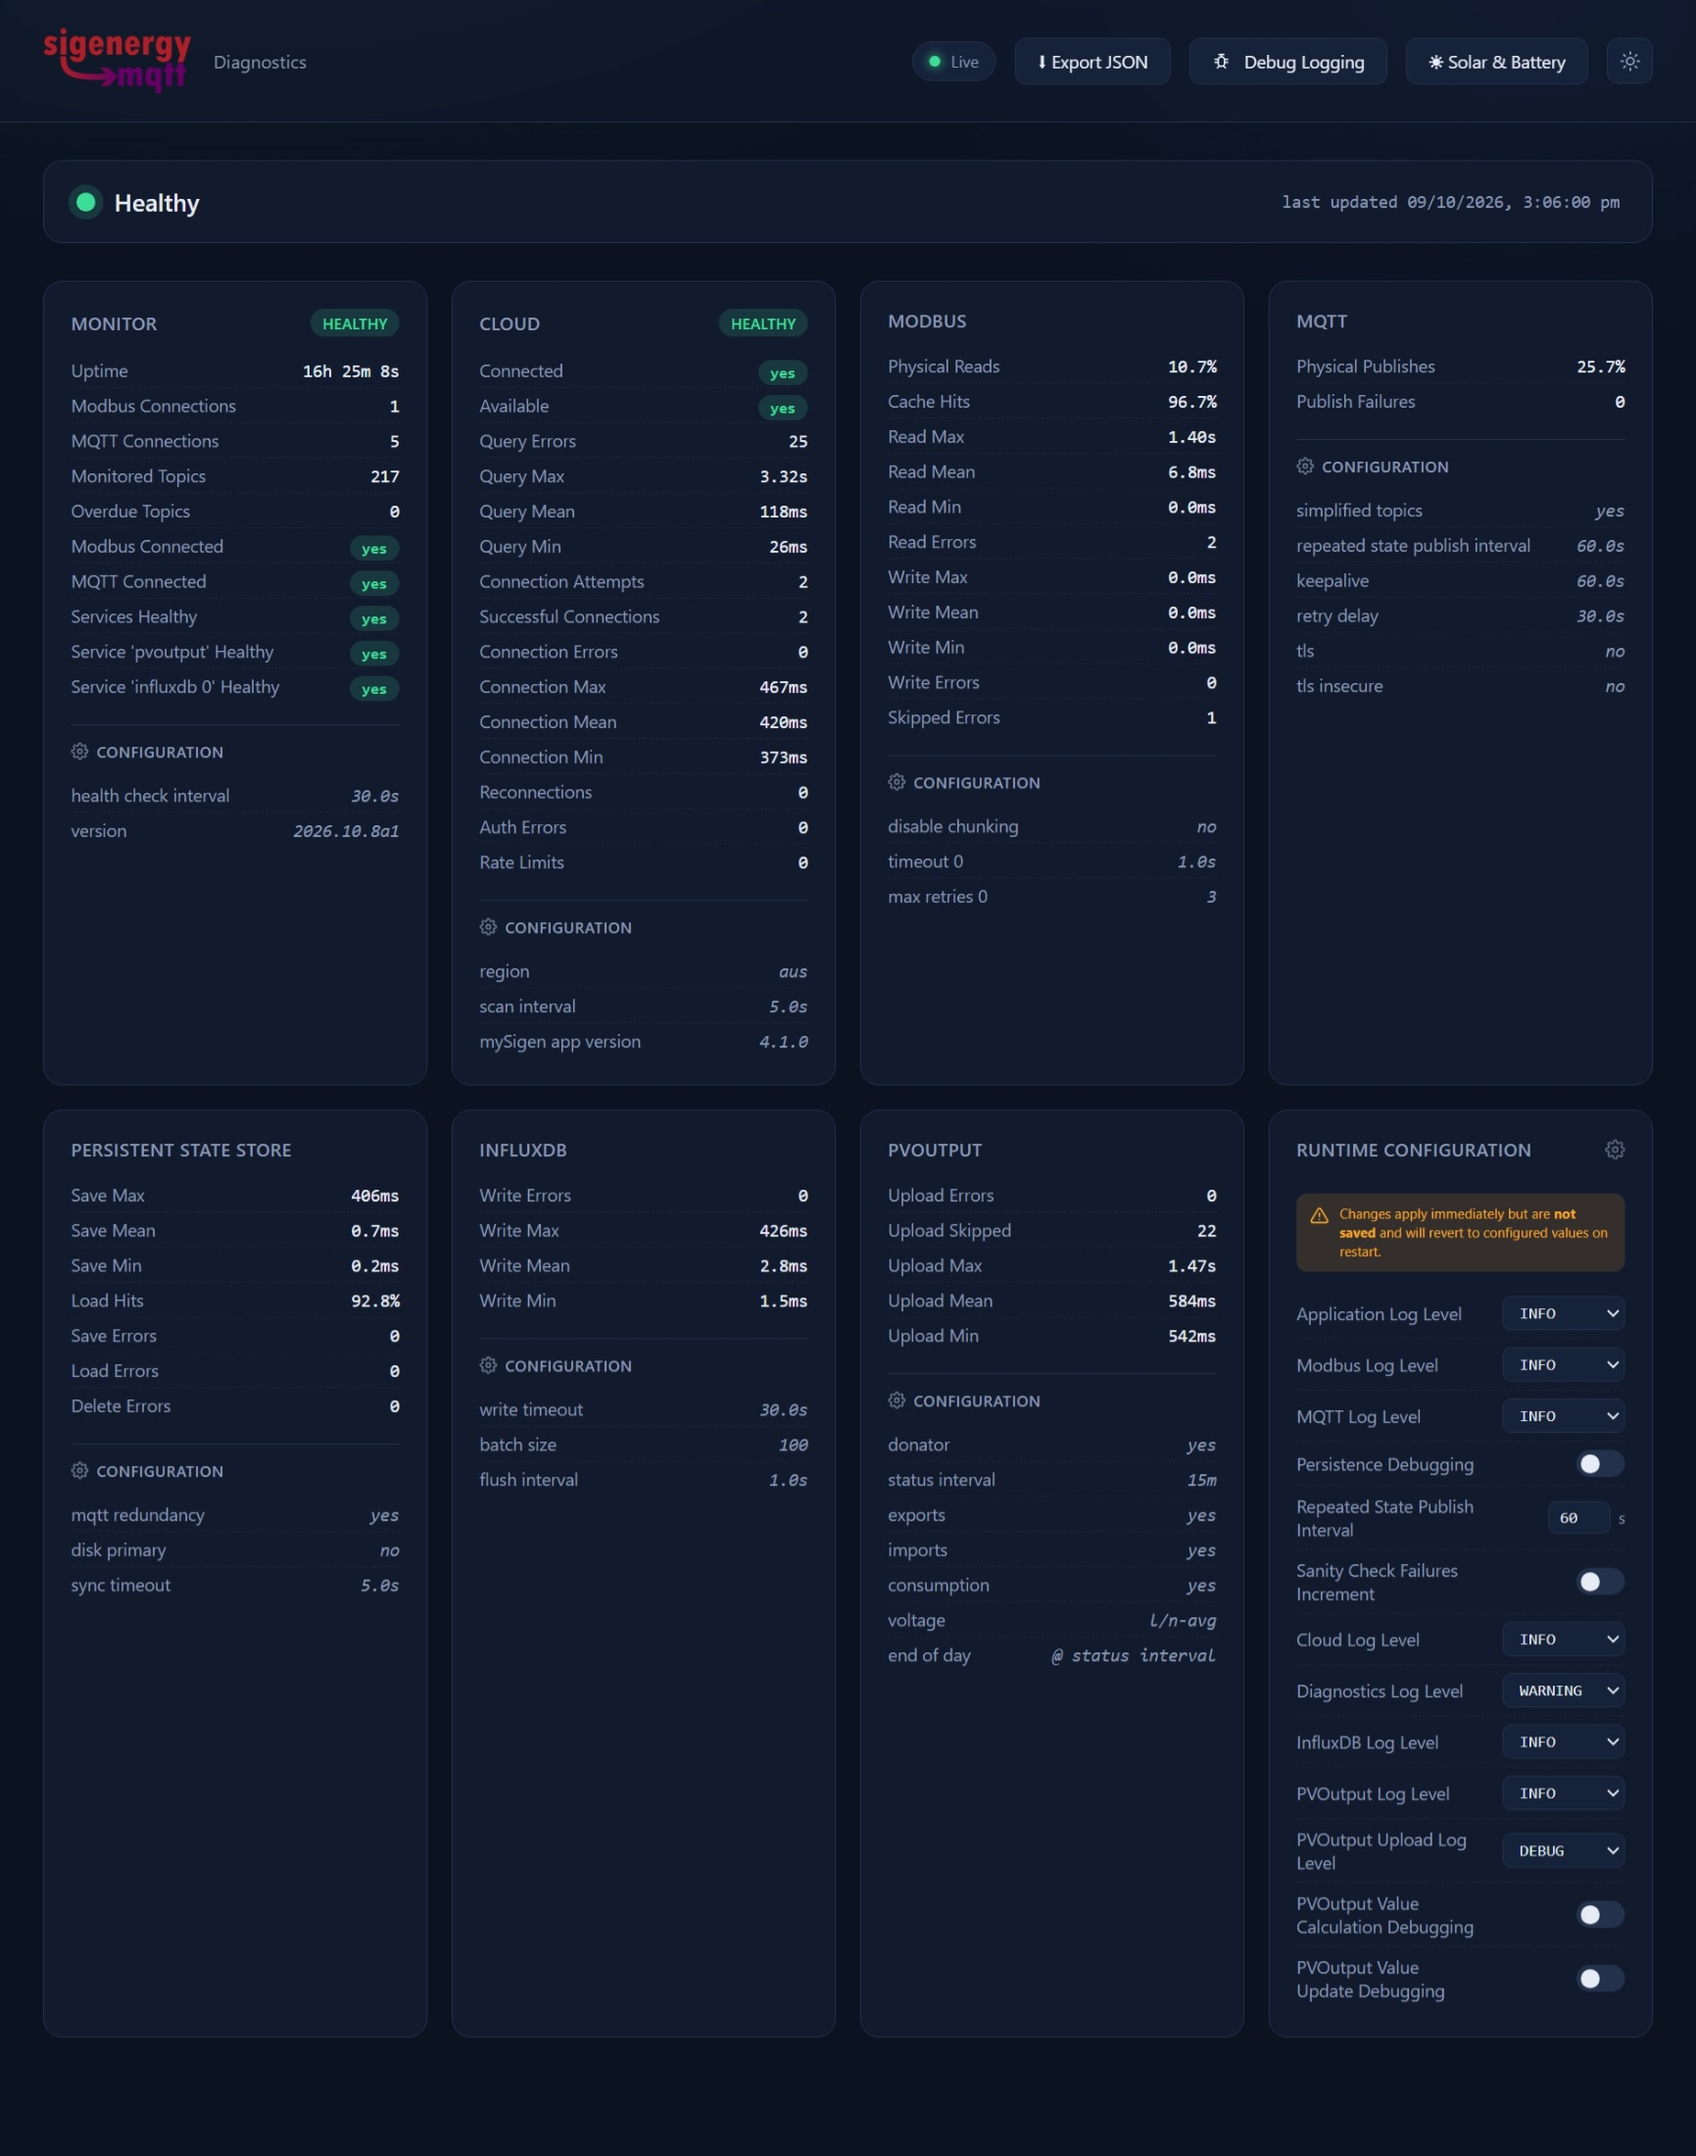
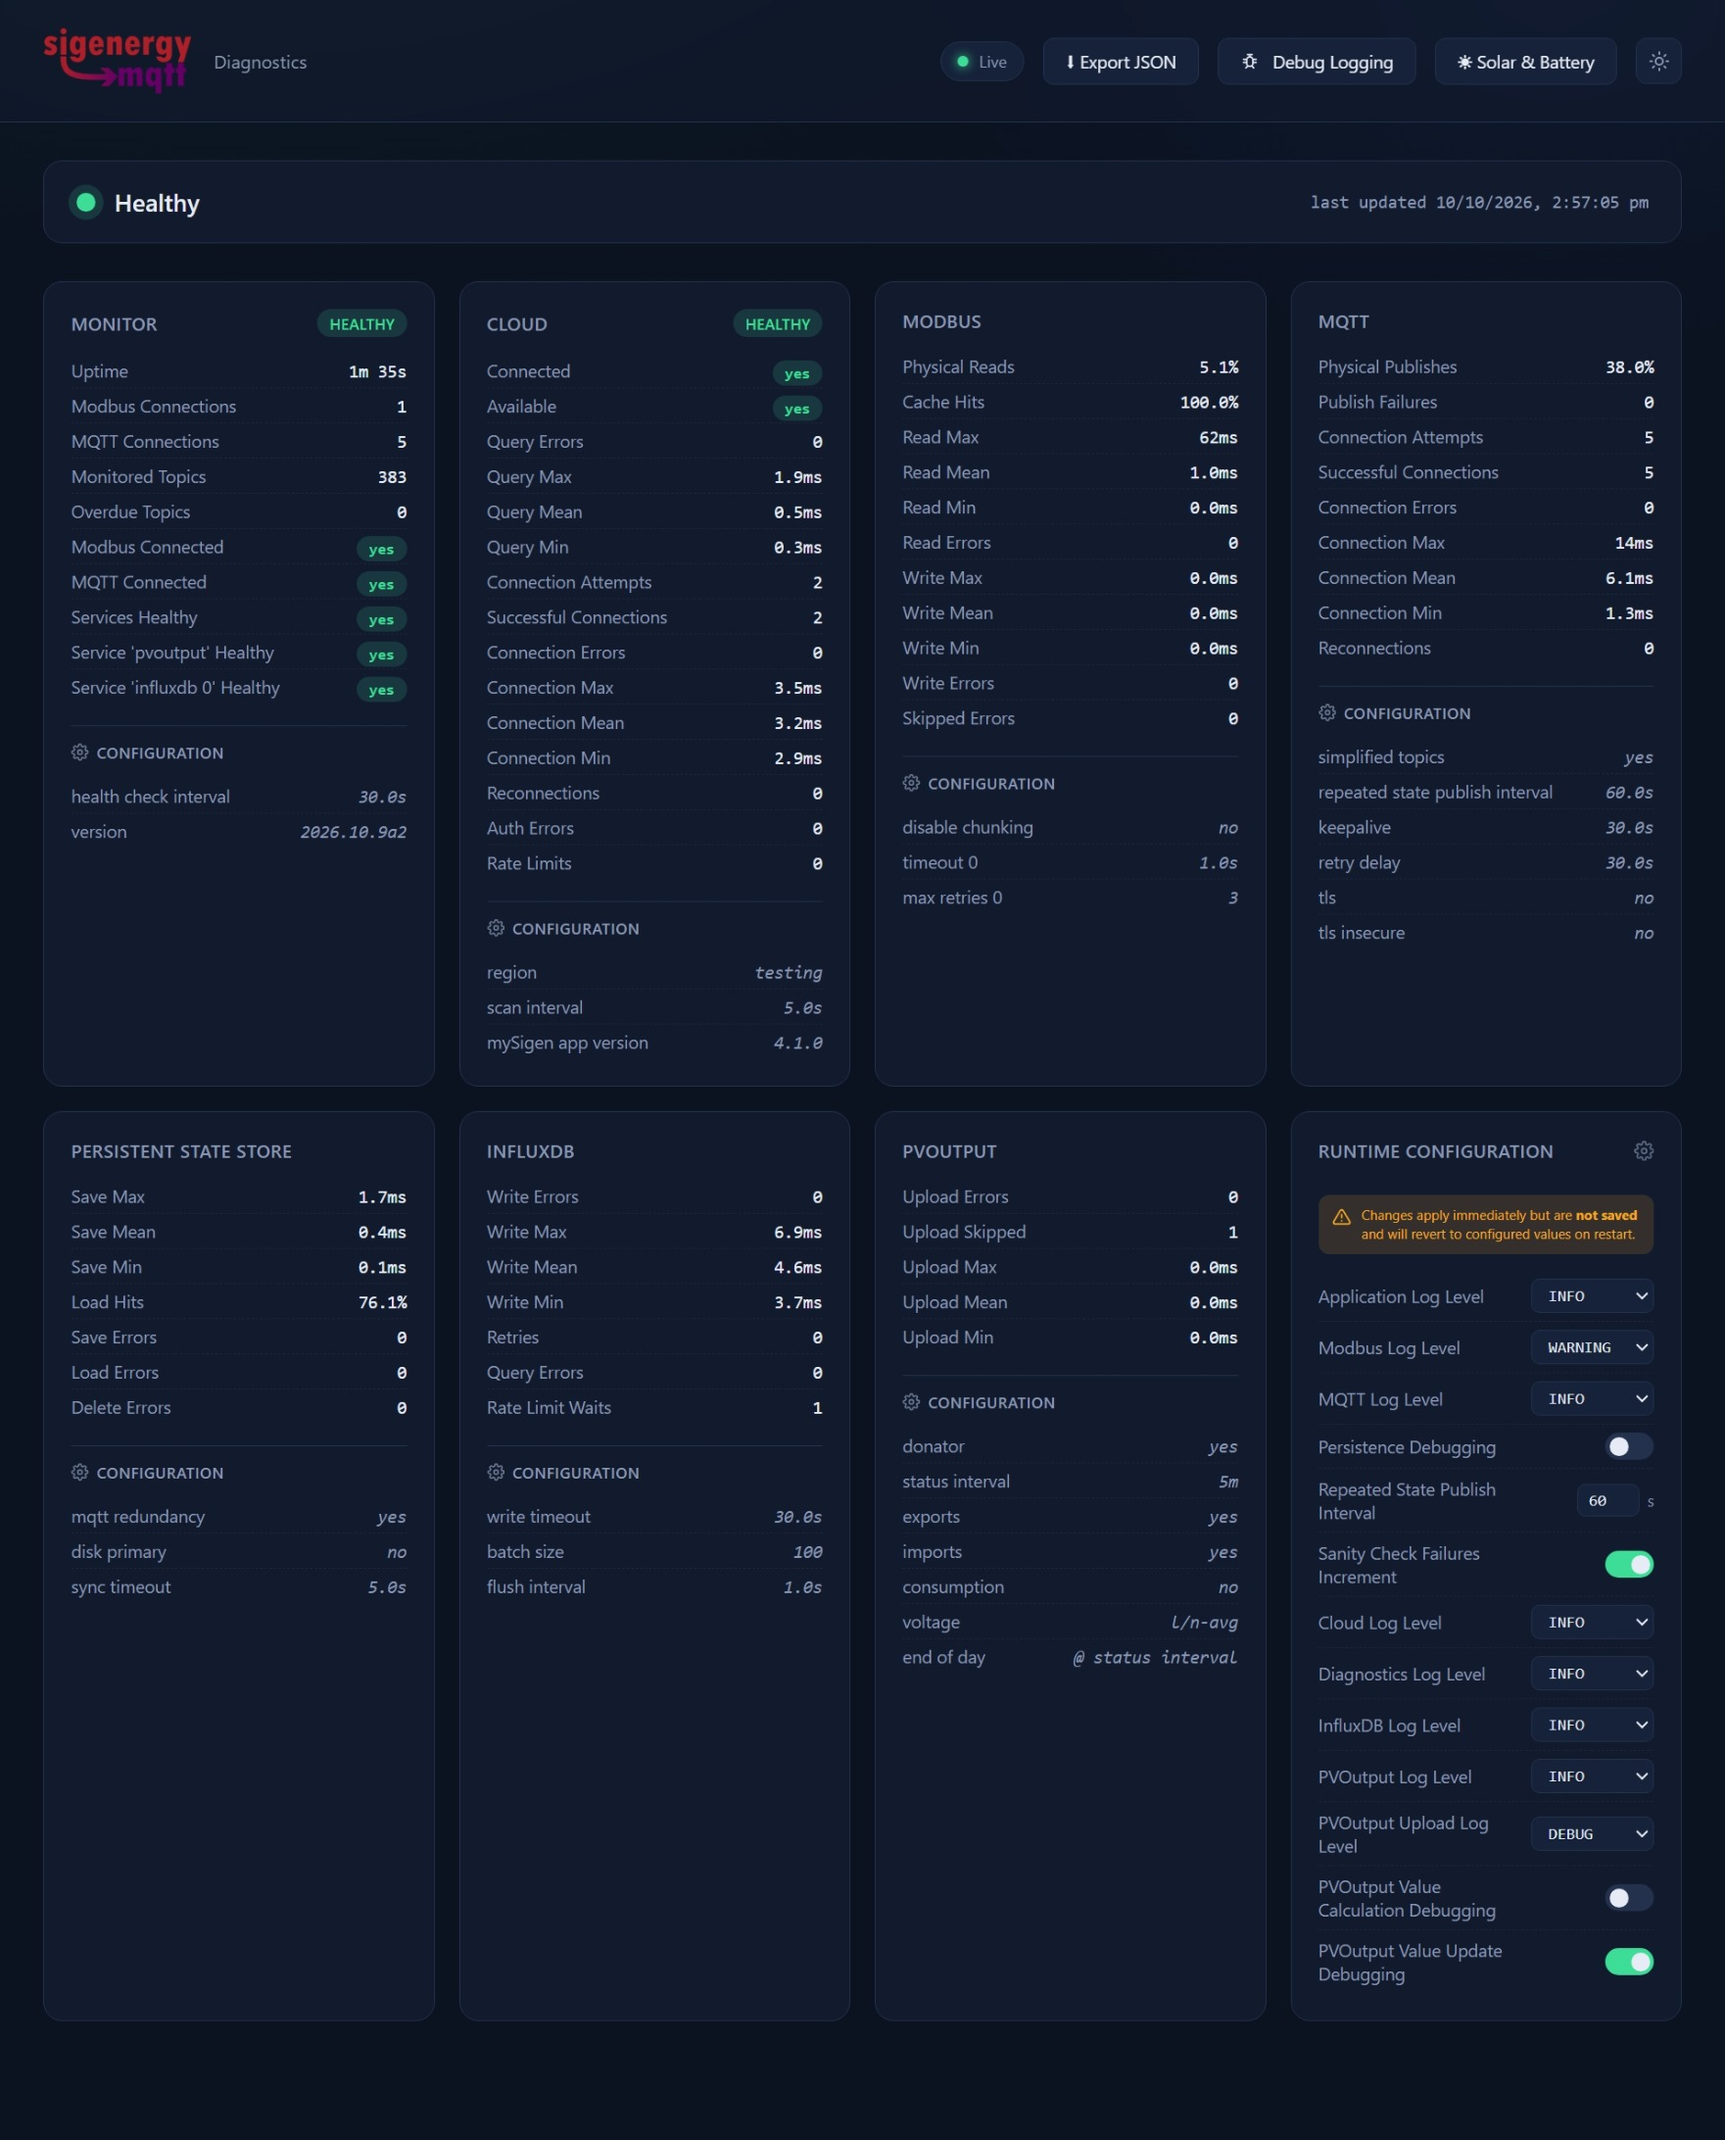
feat: implement text stripping functions for diagnostics metrics

diff --git a/src/sigenergy2mqtt/diagnostics/collectors.py b/src/sigenergy2mqtt/diagnostics/collectors.py
@@ -1,3 +1,4 @@
+import re
 from typing import Any, cast
 
 from sigenergy2mqtt.cloud.mysigen_adapter import MySigenCloudAdapter
@@ -13,6 +14,22 @@ from sigenergy2mqtt.sensors.base.writeable import (
 )
 
 from .registry import diagnostics_registry
+
+
+def make_stripper(*terms: str):
+    alternation = "|".join(re.escape(t) for t in terms)
+    pattern = re.compile(rf"[\s\-–—]*(?:{alternation})[\s\-–—]*", re.IGNORECASE)
+
+    def strip_terms(text: str) -> str:
+        return pattern.sub(" ", text).strip()
+
+    return strip_terms
+
+
+strip_influxdb = make_stripper("InfluxDB")
+strip_modbus = make_stripper("Modbus")
+strip_mqtt = make_stripper("MQTT")
+strip_pvoutput = make_stripper("PVOutput")
 
 
 class DiagnosticsCollectors:
@@ -135,10 +152,10 @@ class DiagnosticsCollectors:
         """Diagnostics provider callback: exposes the latest InfluxDB metrics."""
         async with Metrics.lock(timeout=1.0):
             influxdb_metrics = {
-                f"{_t('InfluxDBWriteErrors.name').removeprefix('InfluxDB ')}": Metrics.sigenergy2mqtt_influxdb_write_errors,
-                f"{_t('InfluxDBWriteMax.name').removeprefix('InfluxDB ')}_ms": Metrics.sigenergy2mqtt_influxdb_write_max,
-                f"{_t('InfluxDBWriteMean.name').removeprefix('InfluxDB ')}_ms": Metrics.sigenergy2mqtt_influxdb_write_mean,
-                f"{_t('InfluxDBWriteMin.name').removeprefix('InfluxDB ')}_ms": Metrics.sigenergy2mqtt_influxdb_write_min if Metrics.sigenergy2mqtt_influxdb_write_min != float("inf") else 0.0,
+                f"{strip_influxdb(_t('InfluxDBWriteErrors.name'))}": Metrics.sigenergy2mqtt_influxdb_write_errors,
+                f"{strip_influxdb(_t('InfluxDBWriteMax.name'))}_ms": Metrics.sigenergy2mqtt_influxdb_write_max,
+                f"{strip_influxdb(_t('InfluxDBWriteMean.name'))}_ms": Metrics.sigenergy2mqtt_influxdb_write_mean,
+                f"{strip_influxdb(_t('InfluxDBWriteMin.name'))}_ms": Metrics.sigenergy2mqtt_influxdb_write_min if Metrics.sigenergy2mqtt_influxdb_write_min != float("inf") else 0.0,
                 "config": {
                     "write_timeout_secs": active_config.influxdb.write_timeout,
                     "batch_size": active_config.influxdb.batch_size,
@@ -147,9 +164,9 @@ class DiagnosticsCollectors:
             }
             if active_config.influxdb.load_hass_history:
                 influxdb_metrics.update({
-                    f"{_t('InfluxDBRetries.name').removeprefix('InfluxDB ')}": Metrics.sigenergy2mqtt_influxdb_retries,
-                    f"{_t('InfluxDBQueryErrors.name').removeprefix('InfluxDB ')}": Metrics.sigenergy2mqtt_influxdb_query_errors,
-                    f"{_t('InfluxDBRateLimitWaits.name').removeprefix('InfluxDB ')}": Metrics.sigenergy2mqtt_influxdb_rate_limit_waits,
+                    f"{strip_influxdb(_t('InfluxDBRetries.name'))}": Metrics.sigenergy2mqtt_influxdb_retries,
+                    f"{strip_influxdb(_t('InfluxDBQueryErrors.name'))}": Metrics.sigenergy2mqtt_influxdb_query_errors,
+                    f"{strip_influxdb(_t('InfluxDBRateLimitWaits.name'))}": Metrics.sigenergy2mqtt_influxdb_rate_limit_waits,
                 })
             return influxdb_metrics
 
@@ -158,17 +175,17 @@ class DiagnosticsCollectors:
         """Diagnostics provider callback: exposes the latest Modbus metric."""
         async with Metrics.lock(timeout=1.0):
             return {
-                f"{_t('ModbusPhysicalReads.name').removeprefix('Modbus ')}_pct": Metrics.sigenergy2mqtt_modbus_physical_read_percentage,
-                f"{_t('ModbusCacheHits.name').removeprefix('Modbus ')}_pct": Metrics.sigenergy2mqtt_modbus_cache_hit_percentage,
-                f"{_t('ModbusReadMax.name').removeprefix('Modbus ')}_ms": Metrics.sigenergy2mqtt_modbus_read_max,
-                f"{_t('ModbusReadMean.name').removeprefix('Modbus ')}_ms": Metrics.sigenergy2mqtt_modbus_read_mean,
-                f"{_t('ModbusReadMin.name').removeprefix('Modbus ')}_ms": Metrics.sigenergy2mqtt_modbus_read_min if Metrics.sigenergy2mqtt_modbus_read_min != float("inf") else 0.0,
-                f"{_t('ModbusReadErrors.name').removeprefix('Modbus ')}": Metrics.sigenergy2mqtt_modbus_read_errors,
-                f"{_t('ModbusWriteMax.name').removeprefix('Modbus ')}_ms": Metrics.sigenergy2mqtt_modbus_write_max,
-                f"{_t('ModbusWriteMean.name').removeprefix('Modbus ')}_ms": Metrics.sigenergy2mqtt_modbus_write_mean,
-                f"{_t('ModbusWriteMin.name').removeprefix('Modbus ')}_ms": Metrics.sigenergy2mqtt_modbus_write_min if Metrics.sigenergy2mqtt_modbus_write_min != float("inf") else 0.0,
-                f"{_t('ModbusWriteErrors.name').removeprefix('Modbus ')}": Metrics.sigenergy2mqtt_modbus_write_errors,
-                f"{_t('ModbusSkippedErrors.name').removeprefix('Modbus ')}": Metrics.sigenergy2mqtt_modbus_skipped_errors,
+                f"{strip_modbus(_t('ModbusPhysicalReads.name'))}_pct": Metrics.sigenergy2mqtt_modbus_physical_read_percentage,
+                f"{strip_modbus(_t('ModbusCacheHits.name'))}_pct": Metrics.sigenergy2mqtt_modbus_cache_hit_percentage,
+                f"{strip_modbus(_t('ModbusReadMax.name'))}_ms": Metrics.sigenergy2mqtt_modbus_read_max,
+                f"{strip_modbus(_t('ModbusReadMean.name'))}_ms": Metrics.sigenergy2mqtt_modbus_read_mean,
+                f"{strip_modbus(_t('ModbusReadMin.name'))}_ms": Metrics.sigenergy2mqtt_modbus_read_min if Metrics.sigenergy2mqtt_modbus_read_min != float("inf") else 0.0,
+                f"{strip_modbus(_t('ModbusReadErrors.name'))}": Metrics.sigenergy2mqtt_modbus_read_errors,
+                f"{strip_modbus(_t('ModbusWriteMax.name'))}_ms": Metrics.sigenergy2mqtt_modbus_write_max,
+                f"{strip_modbus(_t('ModbusWriteMean.name'))}_ms": Metrics.sigenergy2mqtt_modbus_write_mean,
+                f"{strip_modbus(_t('ModbusWriteMin.name'))}_ms": Metrics.sigenergy2mqtt_modbus_write_min if Metrics.sigenergy2mqtt_modbus_write_min != float("inf") else 0.0,
+                f"{strip_modbus(_t('ModbusWriteErrors.name'))}": Metrics.sigenergy2mqtt_modbus_write_errors,
+                f"{strip_modbus(_t('ModbusSkippedErrors.name'))}": Metrics.sigenergy2mqtt_modbus_skipped_errors,
                 "config": {
                     "disable_chunking": "yes" if active_config.modbus[0].disable_chunking else "no",
                     "timeout_0_secs": active_config.modbus[0].timeout,
@@ -181,15 +198,15 @@ class DiagnosticsCollectors:
         """Diagnostics provider callback: exposes the latest MQTT metrics."""
         async with Metrics.lock(timeout=1.0):
             return {
-                f"{_t('MQTTConnectionAttempts.name').removeprefix('MQTT ')}": Metrics.sigenergy2mqtt_mqtt_connection_attempts,
-                f"{_t('MQTTConnections.name').removeprefix('MQTT ')}": Metrics.sigenergy2mqtt_mqtt_connections,
-                f"{_t('MQTTConnectionErrors.name').removeprefix('MQTT ')}": Metrics.sigenergy2mqtt_mqtt_connection_errors,
-                f"{_t('MQTTConnectionMax.name').removeprefix('MQTT ')}_ms": Metrics.sigenergy2mqtt_mqtt_connection_max,
-                f"{_t('MQTTConnectionMean.name').removeprefix('MQTT ')}_ms": Metrics.sigenergy2mqtt_mqtt_connection_mean,
-                f"{_t('MQTTConnectionMin.name').removeprefix('MQTT ')}_ms": Metrics.sigenergy2mqtt_mqtt_connection_min if Metrics.sigenergy2mqtt_mqtt_connection_min != float("inf") else 0.0,
-                f"{_t('MQTTReconnections.name').removeprefix('MQTT ')}": Metrics.sigenergy2mqtt_mqtt_reconnections,
-                f"{_t('MQTTPhysicalPublishes.name').removeprefix('MQTT ')}_pct": Metrics.sigenergy2mqtt_mqtt_physical_publish_percentage,
-                f"{_t('MQTTPublishFailures.name').removeprefix('MQTT ')}": Metrics.sigenergy2mqtt_mqtt_publish_failures,
+                f"{strip_mqtt(_t('MQTTPhysicalPublishes.name'))}_pct": Metrics.sigenergy2mqtt_mqtt_physical_publish_percentage,
+                f"{strip_mqtt(_t('MQTTPublishFailures.name'))}": Metrics.sigenergy2mqtt_mqtt_publish_failures,
+                f"{strip_mqtt(_t('MQTTConnectionAttempts.name'))}": Metrics.sigenergy2mqtt_mqtt_connection_attempts,
+                f"{strip_mqtt(_t('MQTTConnections.name'))}": Metrics.sigenergy2mqtt_mqtt_connections,
+                f"{strip_mqtt(_t('MQTTConnectionErrors.name'))}": Metrics.sigenergy2mqtt_mqtt_connection_errors,
+                f"{strip_mqtt(_t('MQTTConnectionMax.name'))}_ms": Metrics.sigenergy2mqtt_mqtt_connection_max,
+                f"{strip_mqtt(_t('MQTTConnectionMean.name'))}_ms": Metrics.sigenergy2mqtt_mqtt_connection_mean,
+                f"{strip_mqtt(_t('MQTTConnectionMin.name'))}_ms": Metrics.sigenergy2mqtt_mqtt_connection_min if Metrics.sigenergy2mqtt_mqtt_connection_min != float("inf") else 0.0,
+                f"{strip_mqtt(_t('MQTTReconnections.name'))}": Metrics.sigenergy2mqtt_mqtt_reconnections,
                 "config": {
                     "simplified_topics": "no" if active_config.home_assistant.enabled and not active_config.home_assistant.use_simplified_topics else "yes",
                     "repeated_state_publish_interval_secs": active_config.repeated_state_publish_interval,
@@ -238,11 +255,11 @@ class DiagnosticsCollectors:
 
         async with Metrics.lock(timeout=1.0):
             return {
-                f"{_t('PVOutputUploadErrors.name').removeprefix('PVOutput ')}": Metrics.sigenergy2mqtt_pvoutput_upload_errors,
-                f"{_t('PVOutputUploadSkipped.name').removeprefix('PVOutput ')}": Metrics.sigenergy2mqtt_pvoutput_upload_skipped,
-                f"{_t('PVOutputUploadMax.name').removeprefix('PVOutput ')}_ms": Metrics.sigenergy2mqtt_pvoutput_upload_max,
-                f"{_t('PVOutputUploadMean.name').removeprefix('PVOutput ')}_ms": Metrics.sigenergy2mqtt_pvoutput_upload_mean,
-                f"{_t('PVOutputUploadMin.name').removeprefix('PVOutput ')}_ms": Metrics.sigenergy2mqtt_pvoutput_upload_min if Metrics.sigenergy2mqtt_pvoutput_upload_min != float("inf") else 0.0,
+                f"{strip_pvoutput(_t('PVOutputUploadErrors.name'))}": Metrics.sigenergy2mqtt_pvoutput_upload_errors,
+                f"{strip_pvoutput(_t('PVOutputUploadSkipped.name'))}": Metrics.sigenergy2mqtt_pvoutput_upload_skipped,
+                f"{strip_pvoutput(_t('PVOutputUploadMax.name'))}_ms": Metrics.sigenergy2mqtt_pvoutput_upload_max,
+                f"{strip_pvoutput(_t('PVOutputUploadMean.name'))}_ms": Metrics.sigenergy2mqtt_pvoutput_upload_mean,
+                f"{strip_pvoutput(_t('PVOutputUploadMin.name'))}_ms": Metrics.sigenergy2mqtt_pvoutput_upload_min if Metrics.sigenergy2mqtt_pvoutput_upload_min != float("inf") else 0.0,
                 "config": {
                     "donator": "yes" if PVOutputSettings.donator else "no",
                     "status_interval_secs": PVOutputSettings.interval * 60,
